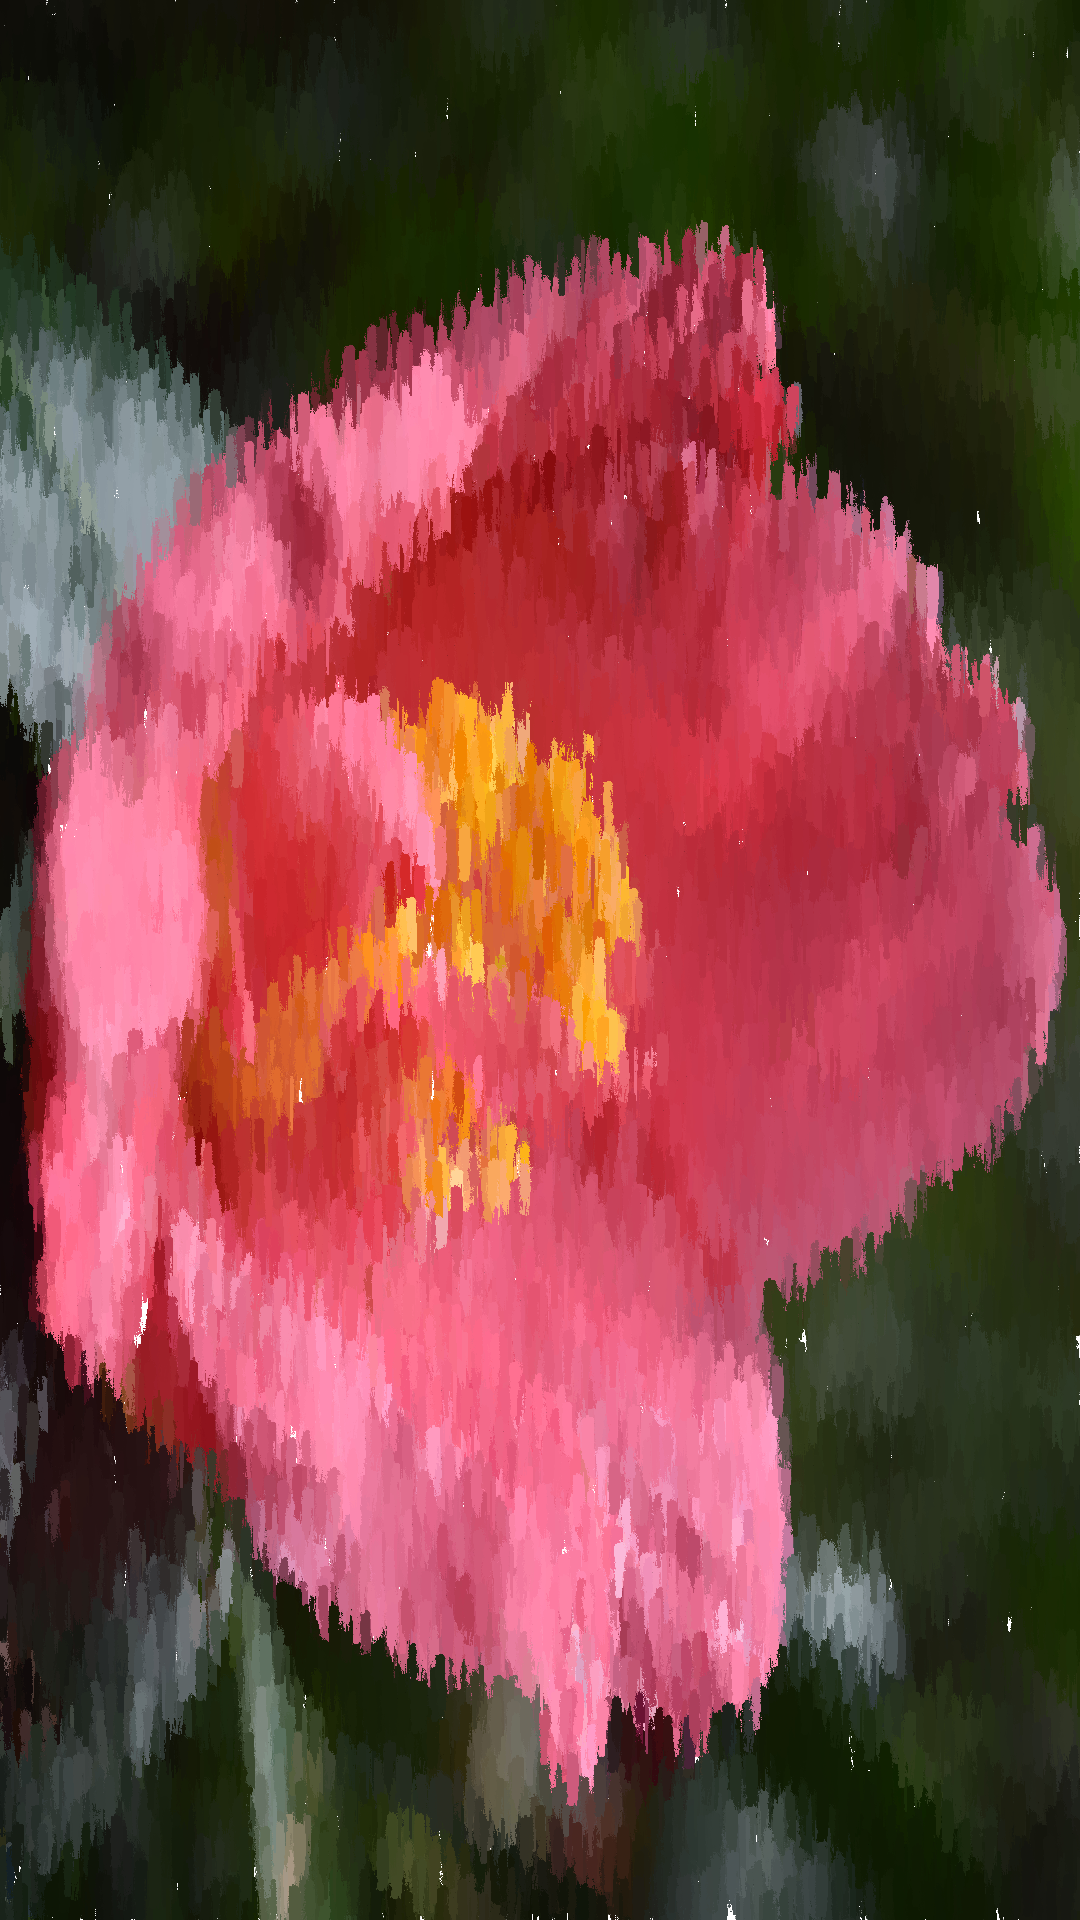
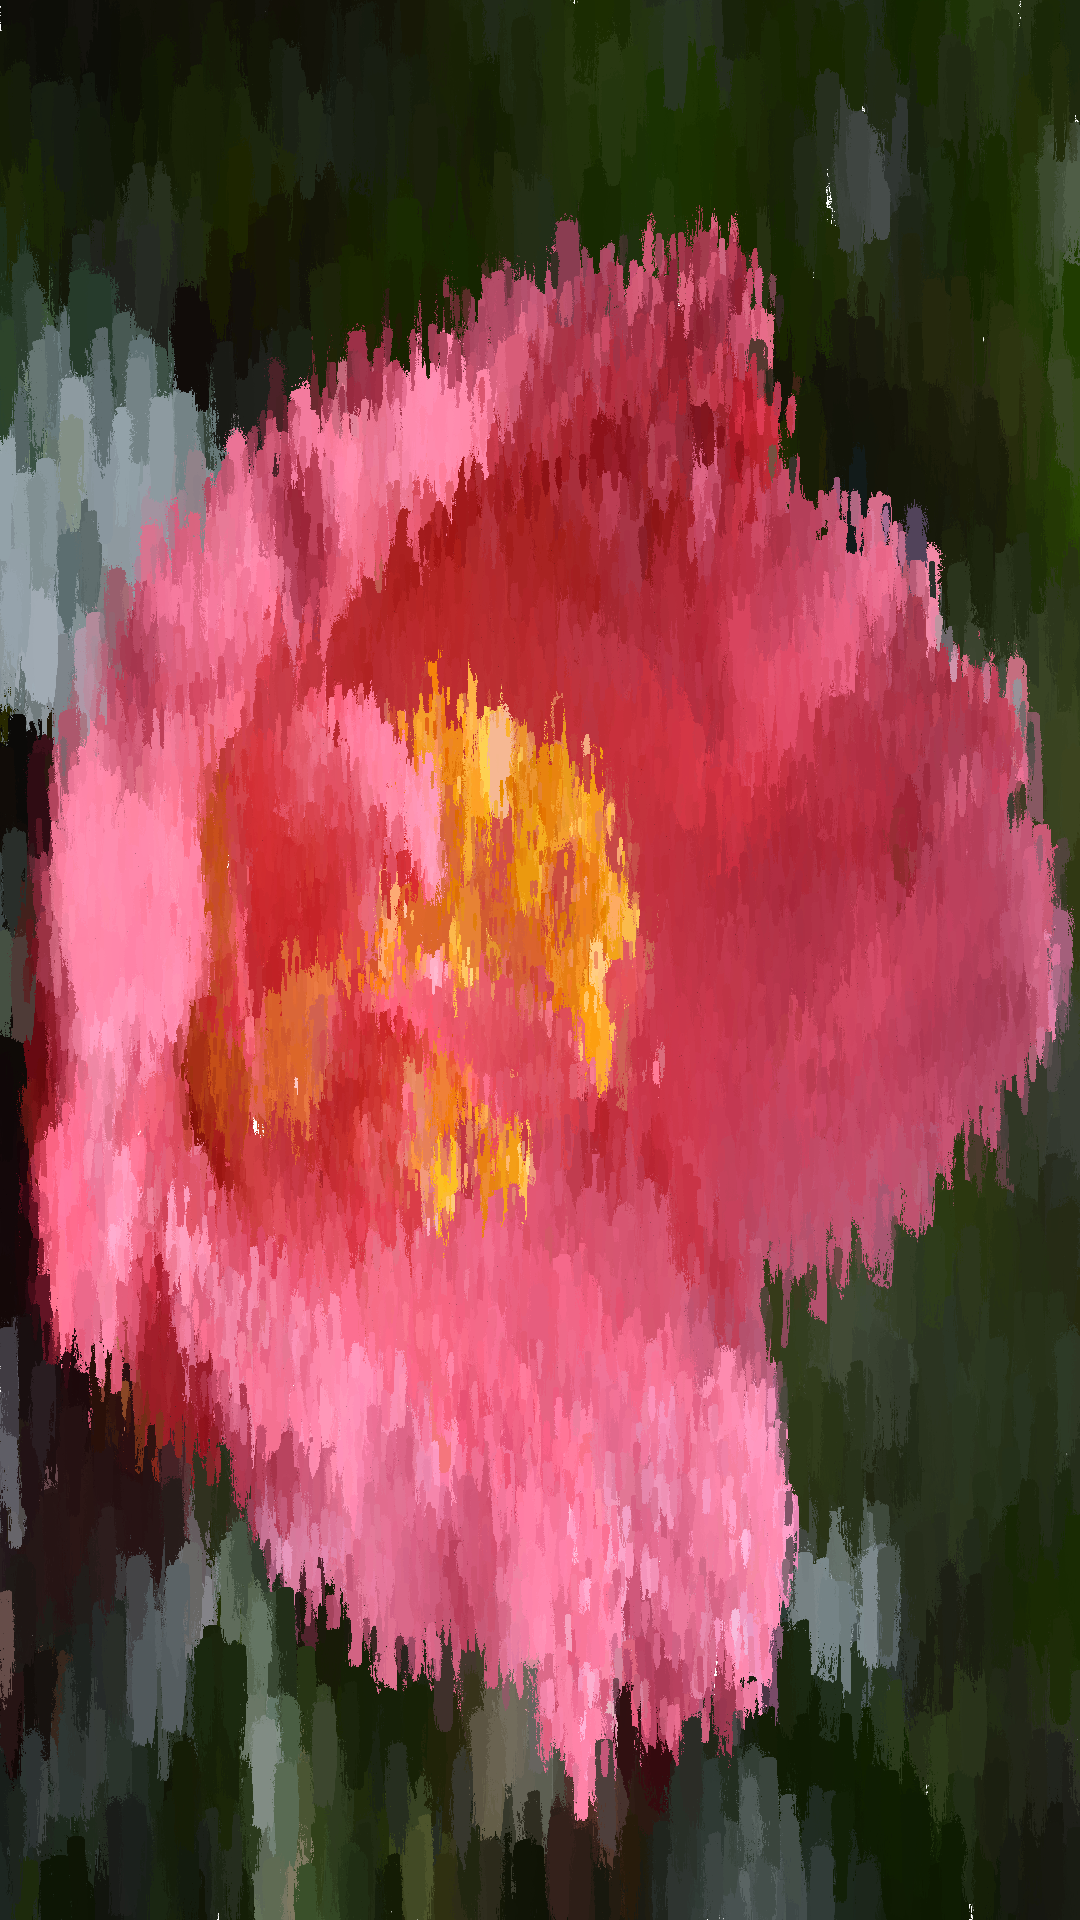
Fixed code to work, added a brush stroke size reference

diff --git a/sketch.js b/sketch.js
@@ -3,15 +3,18 @@
 var sourceImg=null;
 var maskImg=null;
 var renderCounter=0;
-var firstLayerCounter = 30;
-var mrenderCounter=0;
-var secondLayerCounter = 50;
-var frenderCounter=0;
-var thirdLayerCounter = 75;
-
 //Creating a "time" variable
-var t = 1;
+var t1 = 1;
+var t2 = 1;
+var t3 = 1;
+var rendlay1 = 200;
+var rendlay2 = 400;
+var rendlay3 = 700;
+var rendstop = rendlay3;
 
+var pointSize = 30;
+var medDetail = 10;
+var fineDetail = 5;
 
 function preload() {
 //Loading the three different image layers, the standard, the medium, and the fine
@@ -50,211 +53,197 @@ function setup () {
 }
 
 function draw () {
-  
 //For loop for the first base layer of paint, low res, so large brush stroke size (pointSize)
-if(renderCounter < firstLayerCounter){
+if(renderCounter < rendlay1){
+  firstLayer();
+}
+  
+//Second layer of paint, painting the "medium" level of detail  
+if(renderCounter > rendlay1 && renderCounter < rendlay2){
+  secondLayer();
+}  
+
+//Third and final layer, this one has tiny brush strokes for the fine detail
+if(renderCounter > rendlay2){
+  thirdLayer();
+}
+
+renderCounter = renderCounter + 1;
+console.log(renderCounter);
+
+if(renderCounter >= rendstop) {
+        console.log("Done!")
+        noLoop();
+        saveBlocksImages();
+      }
+
+function keyTyped() {
+  if (key == '!') {
+    saveBlocksImages();
+  }
+}
+
+
+
+
+
+//----------------------------------------------------------------------------------------------------------//
+
+
+
+
+
+function firstLayer (){
   for(var i=0;i<50;i++) {
     var x = floor(random(sourceImg.width));
     var y = floor(random(sourceImg.height));
     var pix = sourceImg.get(x, y);
     var mask = maskImg.get(x, y);
-    var pointSize = 20;
     tint(pix);
     
     
 //If statements allow for even rotation and distribution of different brush stroke types
-      if(t == 1) {
+      if(t1 == 1) {
         image(strokeImg1,x, y, pointSize, 4*pointSize);
       }
-      if(t == 2) {
+      if(t1 == 2) {
         image(strokeImg2,x, y, pointSize, 4*pointSize);
       }
-      if(t == 3) {
+      if(t1 == 3) {
         image(strokeImg3,x, y, pointSize, 4*pointSize);
       }
-      if(t == 4) {
+      if(t1 == 4) {
         image(strokeImg4,x, y, pointSize, 4*pointSize);
       }
-      if(t == 5) {
+      if(t1 == 5) {
         image(strokeImg5,x, y, pointSize, 4*pointSize);
       }
-      if(t == 6) {
+      if(t1 == 6) {
         image(strokeImg6,x, y, pointSize, 4*pointSize);
       }
-      if(t == 7) {
+      if(t1 == 7) {
         image(strokeImg7,x, y, pointSize, 4*pointSize);
       }
-      if(t == 8) {
+      if(t1 == 8) {
         image(strokeImg8,x, y, pointSize, 4*pointSize);
       }
-      if(t == 9) {
+      if(t1 == 9) {
         image(strokeImg9,x, y, pointSize, 4*pointSize);
       }
-      if(t == 10) {
+      if(t1 == 10) {
         image(strokeImg10,x, y, pointSize, 4*pointSize);
       }
-      if(t == 11) {
+      if(t1 == 11) {
         image(strokeImg11,x, y, pointSize, 4*pointSize);
       }
 
 //Counting up the timer variable for use in if statements above   
-      if(t < 12){
-      t = t + 1;
+      if(t1 < 12){
+      t1 = t1 + 1;
       } else {
-        t = 1;
+        t1 = 1;
       }
-      
-    renderCounter = renderCounter + 1;
   }
 }
-  if(renderCounter >= firstLayerCounter) {
-        console.log("First layer done!")
-        //noLoop();
-        // saveBlocksImages();
-      }
-  
-  
-//
-//--------------------------------------------------------------------
-//--------------------------------------------------------------------
-//--------------------------------------------------------------------
-//--------------------------------------------------------------------
-//
 
-//Second layer of paint, painting the "medium" level of detail  
-if(mrenderCounter < secondLayerCounter){
+function secondLayer(){
   for(var j=0;j<50;j++) {
-      var mx = floor(random(medImg.width));
-      var my = floor(random(medImg.height));
-      var mpix = medImg.get(x, y);
-      var medDetail = 15
-      tint(mpix);
+      x = floor(random(sourceImg.width));
+      y = floor(random(sourceImg.height));
+      pix = medImg.get(x, y);
+      tint(pix);
       
-  
-        if(t == 1) {
-          image(strokeImg1,mx, my, medDetail, 4*medDetail);
+        if(t2 == 1) {
+          image(strokeImg1,x, y, medDetail, 4*medDetail);
         }
-        if(t == 2) {
-          image(strokeImg2,mx, my, medDetail, 4*medDetail);
+        if(t2 == 2) {
+          image(strokeImg2,x, y, medDetail, 4*medDetail);
         }
-        if(t == 3) {
-          image(strokeImg3,mx, my, medDetail, 4*medDetail);
+        if(t2 == 3) {
+          image(strokeImg3,x, y, medDetail, 4*medDetail);
         }
-        if(t == 4) {
-          image(strokeImg4,mx, my, medDetail, 4*medDetail);
+        if(t2 == 4) {
+          image(strokeImg4,x, y, medDetail, 4*medDetail);
         }
-        if(t == 5) {
-          image(strokeImg5,mx, my, medDetail, 4*medDetail);
+        if(t2 == 5) {
+          image(strokeImg5,x, y, medDetail, 4*medDetail);
         }
-        if(t == 6) {
-          image(strokeImg6,mx, my, medDetail, 4*medDetail);
+        if(t2 == 6) {
+          image(strokeImg6,x, y, medDetail, 4*medDetail);
         }
-        if(t == 7) {
-          image(strokeImg7,mx, my, medDetail, 4*medDetail);
+        if(t2 == 7) {
+          image(strokeImg7,x, y, medDetail, 4*medDetail);
         }
-        if(t == 8) {
-          image(strokeImg8,mx, my, medDetail, 4*medDetail);
+        if(t2 == 8) {
+          image(strokeImg8,x, y, medDetail, 4*medDetail);
         }
-        if(t == 9) {
-          image(strokeImg9,mx, my, medDetail, 4*medDetail);
+        if(t2 == 9) {
+          image(strokeImg9,x, y, medDetail, 4*medDetail);
         }
-        if(t == 10) {
-          image(strokeImg10,mx, my, medDetail, 4*medDetail);
+        if(t2 == 10) {
+          image(strokeImg10,x, y, medDetail, 4*medDetail);
         }
-        if(t == 11) {
-          image(strokeImg11,mx, my, medDetail, 4*medDetail);
+        if(t2 == 11) {
+          image(strokeImg11,x, y, medDetail, 4*medDetail);
         }
-  
-      
-      if(t < 12){
-      t = t + 1;
+
+      if(t2 < 12){
+      t2 = t2 + 1;
       } else {
-        t = 1;
+        t2 = 1;
       }
-      
-      mrenderCounter = mrenderCounter + 1;
-  }
-}  
-  if(mrenderCounter > secondLayerCounter) {
-      console.log("Second layer done!")
-      //noLoop();
-      // saveBlocksImages();
-    }
-  
-
-
-//
-//--------------------------------------------------------------------
-//--------------------------------------------------------------------
-//--------------------------------------------------------------------
-//--------------------------------------------------------------------
-//
-  
-//Third and final layer, this one has tiny brush strokes for the fine detail
-if(frenderCounter < thirdLayerCounter){
-  for(var k=0;k<50;k++) {
-    var fx = floor(random(fineImg.width));
-    var fy = floor(random(fineImg.height));
-    var fpix = fineImg.get(x, y);
-    var fineDetail = 5
-    tint(fpix);
-    
-
-      if(t == 1) {
-        image(strokeImg1,fx,  fy, fineDetail, 4*fineDetail);
-      }
-      if(t == 2) {
-        image(strokeImg2,fx, fy, fineDetail, 4*fineDetail);
-      }
-      if(t == 3) {
-        image(strokeImg3,fx, fy, fineDetail, 4*fineDetail);
-      }
-      if(t == 4) {
-        image(strokeImg4,fx, fy, fineDetail, 4*fineDetail);
-      }
-      if(t == 5) {
-        image(strokeImg5,fx, fy, fineDetail, 4*fineDetail);
-      }
-      if(t == 6) {
-        image(strokeImg6,fx, fy, fineDetail, 4*fineDetail);
-      }
-      if(t == 7) {
-        image(strokeImg7,fx, fy, fineDetail, 4*fineDetail);
-      }
-      if(t == 8) {
-        image(strokeImg8,fx, fy, fineDetail, 4*fineDetail);
-      }
-      if(t == 9) {
-        image(strokeImg9,fx, fy, fineDetail, 4*fineDetail);
-      }
-      if(t == 10) {
-        image(strokeImg10,fx, fy, fineDetail, 4*fineDetail);
-      }
-      if(t == 11) {
-        image(strokeImg11,fx, fy, fineDetail, 4*fineDetail);
-      }
-
-    
-    if(t < 12){
-    t = t + 1;
-    } else {
-      t = 1;
-    }
-    
-  }
-  frenderCounter = frenderCounter + 1;
   }
 }
 
-if(frenderCounter > thirdLayerCounter) {
-    console.log("Second layer done!")
-    noLoop();
-    // saveBlocksImages();
-  }
+function thirdLayer(){
+  for(var k=0;k<50;k++) {
+    x = floor(random(fineImg.width));
+    y = floor(random(fineImg.height));
+    pix = fineImg.get(x, y);
+    tint(pix);
+    
 
-function keyTyped() {
-  if (key == '!') {
-    saveBlocksImages();
+      if(t3 == 1) {
+        image(strokeImg1,x,  y, fineDetail, 4*fineDetail);
+      }
+      if(t3 == 2) {
+        image(strokeImg2,x, y, fineDetail, 4*fineDetail);
+      }
+      if(t3 == 3) {
+        image(strokeImg3,x, y, fineDetail, 4*fineDetail);
+      }
+      if(t3 == 4) {
+        image(strokeImg4,x, y, fineDetail, 4*fineDetail);
+      }
+      if(t3 == 5) {
+        image(strokeImg5,x, y, fineDetail, 4*fineDetail);
+      }
+      if(t3 == 6) {
+        image(strokeImg6,x, y, fineDetail, 4*fineDetail);
+      }
+      if(t3 == 7) {
+        image(strokeImg7,x, y, fineDetail, 4*fineDetail);
+      }
+      if(t3 == 8) {
+        image(strokeImg8,x, y, fineDetail, 4*fineDetail);
+      }
+      if(t3 == 9) {
+        image(strokeImg9,x, y, fineDetail, 4*fineDetail);
+      }
+      if(t3 == 10) {
+        image(strokeImg10,x, y, fineDetail, 4*fineDetail);
+      }
+      if(t3 == 11) {
+        image(strokeImg11,x, y, fineDetail, 4*fineDetail);
+      }
+
+    
+      if(t3 < 12){
+      t3 = t3 + 1;
+      } else {
+        t3 = 1;
+      }
+    }
   }
 }
 
